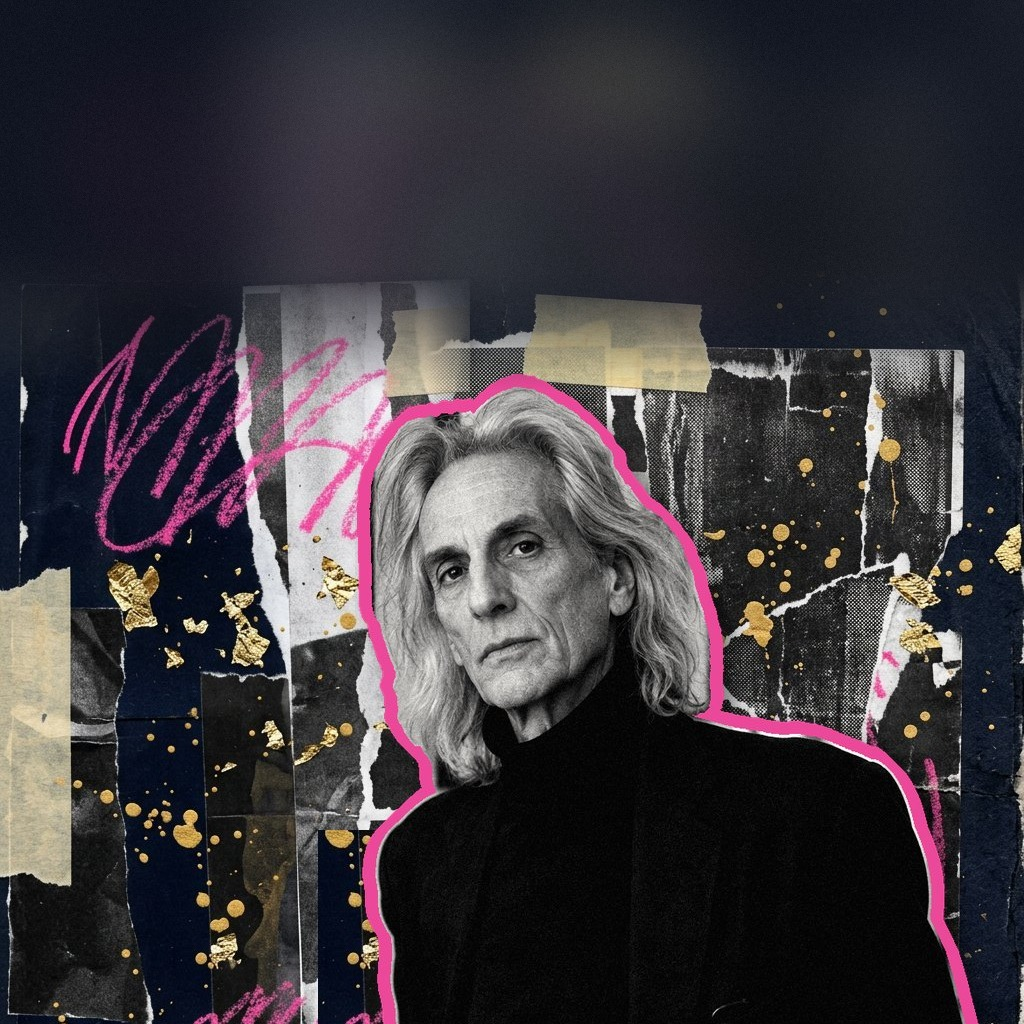
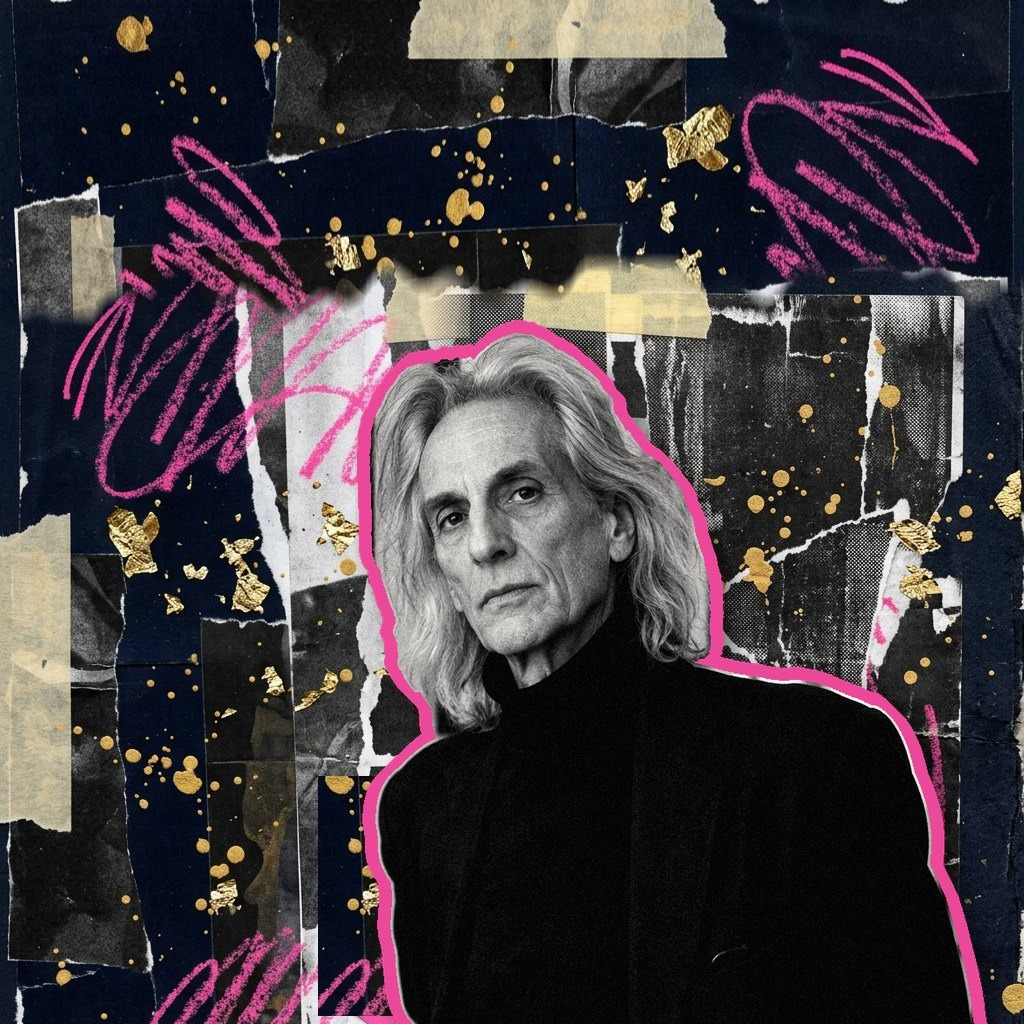
Episode boxes: collage fills the whole picture with Makos and Bartsch lower; outside links say where they go
Claude-Session: https://claude.ai/code/session_011MVAnQFHQ9Wv2cvGWey2uC

diff --git a/src/routes/episodes.s01e01.tsx b/src/routes/episodes.s01e01.tsx
@@ -1,3 +1,4 @@
+import { linkPlace } from "@/lib/link-label";
 import { createFileRoute, Link } from "@tanstack/react-router";
 import { useMemo, useState } from "react";
 import refsRaw from "../data/s01e01.json";
@@ -181,7 +182,7 @@ function EpisodePage() {
                     <EntityLink name={r.name}
                       className="text-lg font-semibold text-cream underline decoration-border underline-offset-4 hover:text-pink" />
                     {r.link && (
-                      <a href={r.link} target="_blank" rel="noreferrer" aria-label={`Read about ${r.name} elsewhere`}
+                      <a href={r.link} target="_blank" rel="noreferrer" aria-label={`Read about ${r.name} ${linkPlace(r.link)}`} title={`Read more ${linkPlace(r.link)}`}
                         className="text-xs text-muted-foreground hover:text-gold">↗</a>
                     )}
                     <span className="rounded-full bg-secondary px-2.5 py-0.5 text-xs text-secondary-foreground">{r.category}</span>

diff --git a/src/routes/episodes.s06e01.tsx b/src/routes/episodes.s06e01.tsx
@@ -1,3 +1,4 @@
+import { linkPlace } from "@/lib/link-label";
 import { createFileRoute, Link } from "@tanstack/react-router";
 import { useMemo, useState } from "react";
 import refsRaw from "../data/s06e01.json";
@@ -180,7 +181,7 @@ function EpisodePage() {
                     <EntityLink name={r.name}
                       className="text-lg font-semibold text-cream underline decoration-border underline-offset-4 hover:text-pink" />
                     {r.link && (
-                      <a href={r.link} target="_blank" rel="noreferrer" aria-label={`Read about ${r.name} elsewhere`}
+                      <a href={r.link} target="_blank" rel="noreferrer" aria-label={`Read about ${r.name} ${linkPlace(r.link)}`} title={`Read more ${linkPlace(r.link)}`}
                         className="text-xs text-muted-foreground hover:text-gold">↗</a>
                     )}
                     <span className="rounded-full bg-secondary px-2.5 py-0.5 text-xs text-secondary-foreground">{r.category}</span>

diff --git a/src/routes/episodes.s01e02.tsx b/src/routes/episodes.s01e02.tsx
@@ -1,3 +1,4 @@
+import { linkPlace } from "@/lib/link-label";
 import { createFileRoute, Link } from "@tanstack/react-router";
 import { useMemo, useState } from "react";
 import refsRaw from "../data/s01e02.json";
@@ -181,7 +182,7 @@ function EpisodePage() {
                       <span className="text-lg font-semibold text-cream">{r.name}</span>
                     )}
                     {r.link && (
-                      <a href={r.link} target="_blank" rel="noreferrer" aria-label={`Read about ${r.name} elsewhere`}
+                      <a href={r.link} target="_blank" rel="noreferrer" aria-label={`Read about ${r.name} ${linkPlace(r.link)}`} title={`Read more ${linkPlace(r.link)}`}
                         className="text-xs text-muted-foreground hover:text-gold">↗</a>
                     )}
                     <span className="rounded-full bg-secondary px-2.5 py-0.5 text-xs text-secondary-foreground">{r.category}</span>

diff --git a/src/routes/episodes.s01e03.tsx b/src/routes/episodes.s01e03.tsx
@@ -1,3 +1,4 @@
+import { linkPlace } from "@/lib/link-label";
 import { createFileRoute, Link } from "@tanstack/react-router";
 import { useMemo, useState } from "react";
 import refsRaw from "../data/s01e03.json";
@@ -181,7 +182,7 @@ function EpisodePage() {
                       <span className="text-lg font-semibold text-cream">{r.name}</span>
                     )}
                     {r.link && (
-                      <a href={r.link} target="_blank" rel="noreferrer" aria-label={`Read about ${r.name} elsewhere`}
+                      <a href={r.link} target="_blank" rel="noreferrer" aria-label={`Read about ${r.name} ${linkPlace(r.link)}`} title={`Read more ${linkPlace(r.link)}`}
                         className="text-xs text-muted-foreground hover:text-gold">↗</a>
                     )}
                     <span className="rounded-full bg-secondary px-2.5 py-0.5 text-xs text-secondary-foreground">{r.category}</span>

diff --git a/src/routes/episodes.s02e03.tsx b/src/routes/episodes.s02e03.tsx
@@ -1,3 +1,4 @@
+import { linkPlace } from "@/lib/link-label";
 import { createFileRoute, Link } from "@tanstack/react-router";
 import { useMemo, useState } from "react";
 import refsRaw from "../data/s02e03.json";
@@ -181,7 +182,7 @@ function EpisodePage() {
                       <span className="text-lg font-semibold text-cream">{r.name}</span>
                     )}
                     {r.link && (
-                      <a href={r.link} target="_blank" rel="noreferrer" aria-label={`Read about ${r.name} elsewhere`}
+                      <a href={r.link} target="_blank" rel="noreferrer" aria-label={`Read about ${r.name} ${linkPlace(r.link)}`} title={`Read more ${linkPlace(r.link)}`}
                         className="text-xs text-muted-foreground hover:text-gold">↗</a>
                     )}
                     <span className="rounded-full bg-secondary px-2.5 py-0.5 text-xs text-secondary-foreground">{r.category}</span>

diff --git a/src/routes/episodes.s03e01.tsx b/src/routes/episodes.s03e01.tsx
@@ -1,3 +1,4 @@
+import { linkPlace } from "@/lib/link-label";
 import { createFileRoute, Link } from "@tanstack/react-router";
 import { useMemo, useState } from "react";
 import refsRaw from "../data/s03e01.json";
@@ -181,7 +182,7 @@ function EpisodePage() {
                       <span className="text-lg font-semibold text-cream">{r.name}</span>
                     )}
                     {r.link && (
-                      <a href={r.link} target="_blank" rel="noreferrer" aria-label={`Read about ${r.name} elsewhere`}
+                      <a href={r.link} target="_blank" rel="noreferrer" aria-label={`Read about ${r.name} ${linkPlace(r.link)}`} title={`Read more ${linkPlace(r.link)}`}
                         className="text-xs text-muted-foreground hover:text-gold">↗</a>
                     )}
                     <span className="rounded-full bg-secondary px-2.5 py-0.5 text-xs text-secondary-foreground">{r.category}</span>

diff --git a/src/routes/episodes.s04e08.tsx b/src/routes/episodes.s04e08.tsx
@@ -1,3 +1,4 @@
+import { linkPlace } from "@/lib/link-label";
 import { createFileRoute, Link } from "@tanstack/react-router";
 import { useMemo, useState } from "react";
 import refsRaw from "../data/s04e08.json";
@@ -181,7 +182,7 @@ function EpisodePage() {
                       <span className="text-lg font-semibold text-cream">{r.name}</span>
                     )}
                     {r.link && (
-                      <a href={r.link} target="_blank" rel="noreferrer" aria-label={`Read about ${r.name} elsewhere`}
+                      <a href={r.link} target="_blank" rel="noreferrer" aria-label={`Read about ${r.name} ${linkPlace(r.link)}`} title={`Read more ${linkPlace(r.link)}`}
                         className="text-xs text-muted-foreground hover:text-gold">↗</a>
                     )}
                     <span className="rounded-full bg-secondary px-2.5 py-0.5 text-xs text-secondary-foreground">{r.category}</span>

diff --git a/src/routes/episodes.s05e06.tsx b/src/routes/episodes.s05e06.tsx
@@ -1,3 +1,4 @@
+import { linkPlace } from "@/lib/link-label";
 import { createFileRoute, Link } from "@tanstack/react-router";
 import { useMemo, useState } from "react";
 import refsRaw from "../data/s05e06.json";
@@ -181,7 +182,7 @@ function EpisodePage() {
                       <span className="text-lg font-semibold text-cream">{r.name}</span>
                     )}
                     {r.link && (
-                      <a href={r.link} target="_blank" rel="noreferrer" aria-label={`Read about ${r.name} elsewhere`}
+                      <a href={r.link} target="_blank" rel="noreferrer" aria-label={`Read about ${r.name} ${linkPlace(r.link)}`} title={`Read more ${linkPlace(r.link)}`}
                         className="text-xs text-muted-foreground hover:text-gold">↗</a>
                     )}
                     <span className="rounded-full bg-secondary px-2.5 py-0.5 text-xs text-secondary-foreground">{r.category}</span>

diff --git a/src/routes/explore.$slug.tsx b/src/routes/explore.$slug.tsx
@@ -1,3 +1,4 @@
+import { linkPlace } from "@/lib/link-label";
 import { createFileRoute, Link, notFound } from "@tanstack/react-router";
 import { entityBySlug, episodeShort, mentionsByEpisode, relatedTo, totalMentions } from "../data/entities";
 import { episodeById, episodePath } from "../data/episodes";
@@ -68,7 +69,7 @@ function EntityPage() {
           {g && <p className="mt-4 text-lg text-muted-foreground"><EntityText text={g.tagline} /></p>}
           {e.link && (
             <a href={e.link} target="_blank" rel="noopener noreferrer" className="mt-4 inline-block text-sm text-gold underline underline-offset-4 hover:text-pink">
-              Read more elsewhere &rarr;
+              Read more {linkPlace(e.link)} &rarr;
             </a>
           )}
         </div>

diff --git a/src/lib/link-label.ts b/src/lib/link-label.ts
@@ -1,0 +1,14 @@
+/** Where an outside link goes, for "Read more ..." labels: "on Wikipedia", "on IMDb", ... */
+export function linkPlace(url: string): string {
+  let host = "";
+  try {
+    host = new URL(url).hostname.replace(/^www\./, "");
+  } catch {
+    return "elsewhere";
+  }
+  if (host.endsWith("wikipedia.org")) return "on Wikipedia";
+  if (host.endsWith("wowpresentsplus.com")) return "on WOW Presents Plus";
+  if (host.endsWith("imdb.com")) return "on IMDb";
+  if (host.startsWith("google.") && url.includes("/search")) return "on Google";
+  return "elsewhere";
+}

diff --git a/AGENTS.md b/AGENTS.md
@@ -29,4 +29,5 @@
 - Decade labels styled in capitals keep a lower-case "s" (1970s, not 1970S) via the Timeline's Decades helper.
 - The footer (SiteFooter) reads the same PAGES list as the top menu (SiteMenu), plus About and Contact, and every page renders it - so footer and menu never drift apart.
 - Attribution rule (legal safety): any episode-sourced claim about a real person's private conduct, crimes, drugs, health, sex/relationships, feuds or other unflattering allegation must name who told it ("Richie says...", "as Musto tells it", or "as told on the show" when the teller is unclear) - never restate a guest's anecdote as plain fact. Neutral public facts and harmless colour need no attribution. Apply to every new Afterparty episode's reference contexts, timeline and guest text; never add years while rewording (years drive the Timeline).
-- Episode box portraits (src/assets/block-*.jpg) keep the face in the lower half of the image: the season line, guest name and stats sit over the top ~40% of the panel, so the head starts below that (pad the top with the dark navy background if needed) - check the box at desktop and phone width so the text never crosses the face.
+- Episode box portraits (src/assets/block-*.jpg): the collage background fills the whole picture edge to edge (no plain bands), and the face sits in the lower half so the season line, guest name and stats at the top never cross it. To lower a portrait, shift it down and refill the top with the same picture's own collage (e.g. a background-only strip rotated into a band, joined with a soft torn edge); check the box at desktop and phone width.
+- Outside links say where they go: "Read more on Wikipedia", "on WOW Presents Plus", "on IMDb", "on Google" (src/lib/link-label.ts linkPlace), falling back to "elsewhere" - never a generic label for a Wikipedia link.
